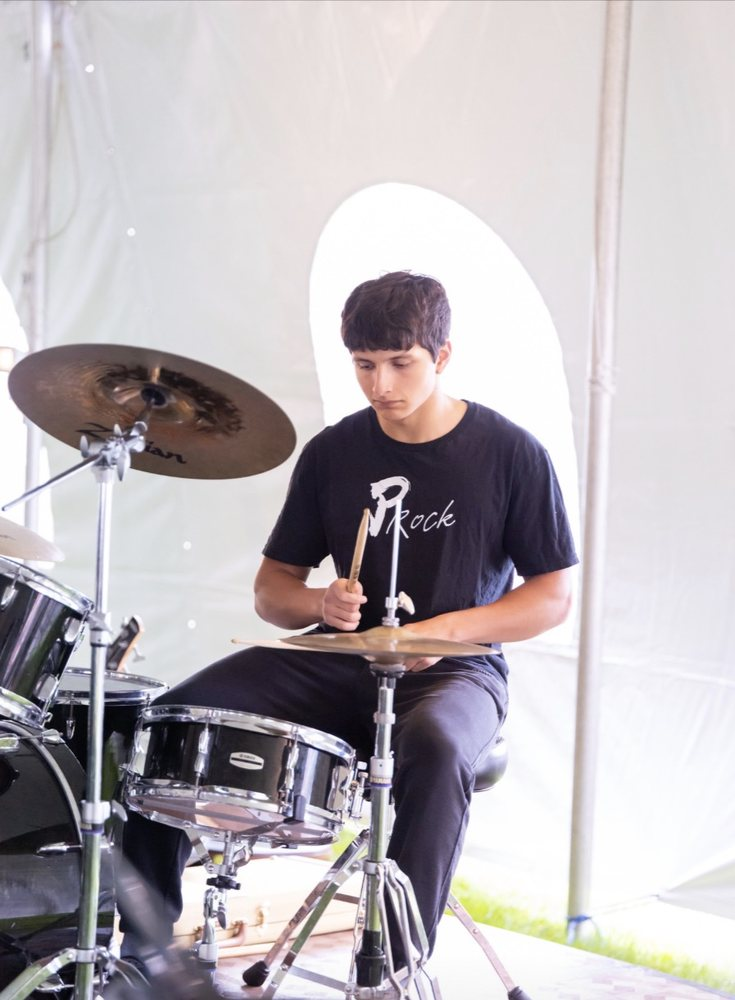
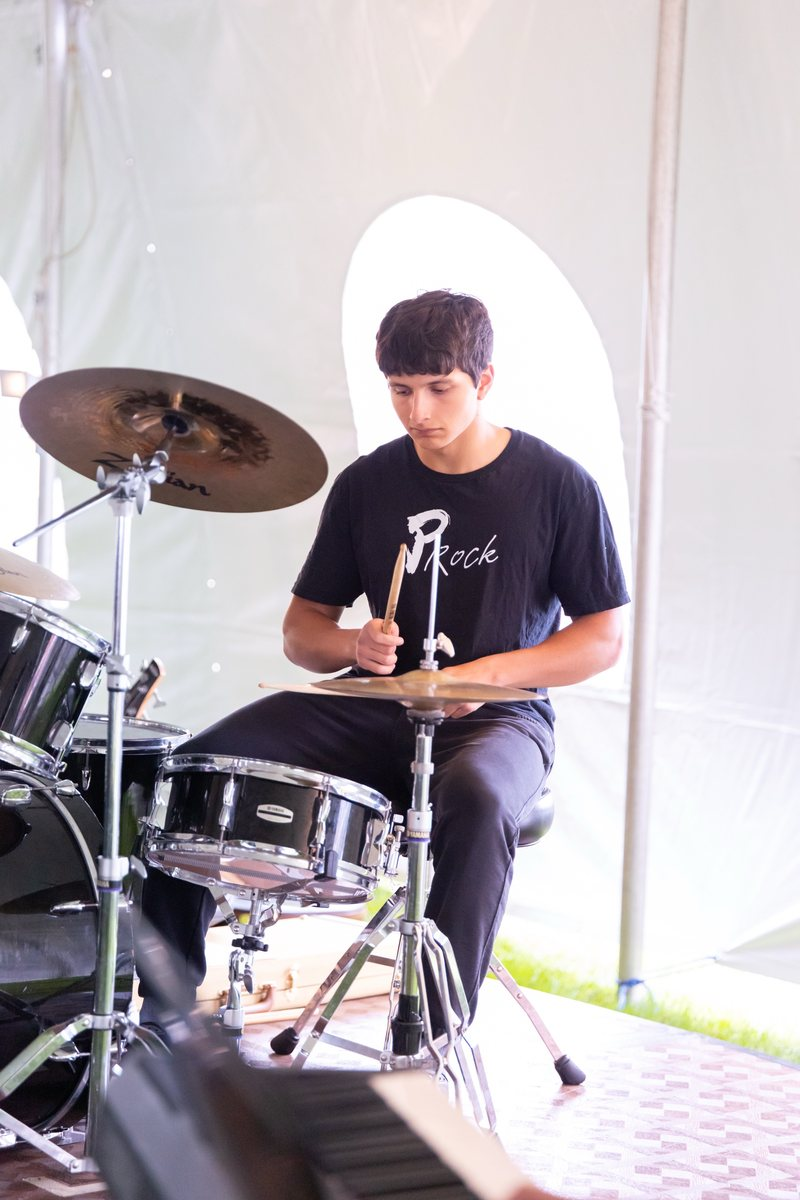
Perkiomen awards night, ceremony and drum photos (#53)
* Add Veracruz hospital photos to the Hospital Shadowing page

Claude-Session: https://claude.ai/code/session_01LLuCQ9BmbqiHfFBN2FyPPo

* Add two Veracruz photos to the homepage floating hero tiles

Claude-Session: https://claude.ai/code/session_01LLuCQ9BmbqiHfFBN2FyPPo

* Use the bicep selfie in the homepage hero instead of the mural

Claude-Session: https://claude.ai/code/session_01LLuCQ9BmbqiHfFBN2FyPPo

* Add CMU, HOSA, volunteering, weightlifting and About photos; more of Santiago in the hero

Claude-Session: https://claude.ai/code/session_01LLuCQ9BmbqiHfFBN2FyPPo

* Hero: real photo tiles served as small preloaded thumbnails, no empty placeholders

Claude-Session: https://claude.ai/code/session_01LLuCQ9BmbqiHfFBN2FyPPo

* Add Exeter, running, swimming, gaming, Chicago, HOSA and travel photos; two more face tiles in the hero

Claude-Session: https://claude.ai/code/session_01LLuCQ9BmbqiHfFBN2FyPPo

* Running hero photo, Colombia and Panama photos, About-page country hover photos, more face tiles in the hero

Claude-Session: https://claude.ai/code/session_01LLuCQ9BmbqiHfFBN2FyPPo

* Speed up the homepage: preload nav templates, smaller hero thumbnails, long-lived caching; fix hero tiles piling up when CSS arrives late

Claude-Session: https://claude.ai/code/session_01LLuCQ9BmbqiHfFBN2FyPPo

* Tidy photo pages into one gallery, hide empty frames, add awards, volunteering, music, Exeter and CMU photos
[…]

diff --git a/tools/build-pages.js b/tools/build-pages.js
@@ -671,9 +671,27 @@ const PAGES = [
         ]
       },
       {
+        "title": "Awards night",
+        "body": [
+          "At Perkiomen's awards ceremony I was called up for two awards: the Medical Spirit and Promise Award, presented through Perkiomen's medical institute, and a Science and Math Award from the Rochester Institute of Technology that comes with a scholarship."
+        ],
+        "points": [
+          [
+            "Medical Spirit and Promise Award",
+            "From the Perkiomen faculty, for the health science track and the work around it."
+          ],
+          [
+            "RIT Science and Math Award",
+            "Includes a scholarship of $29,000 a year, renewable and worth up to $116,000, if I am admitted to an RIT BS/BFA program and enroll in fall 2027."
+          ]
+        ],
+        "slots": ["perk-17"]
+      },
+      {
         "title": "Around campus",
         "slots": [
           "perk-16",
+          "perk-19",
           "perk-13",
           "perk-14",
           "perk-15",
@@ -695,8 +713,8 @@ const PAGES = [
       lede: "Junior year. One for the medical track, one for maths and science, one from the pool.",
       groups: [
         { title: "Grade 11", items: [
-          { label: "Medical Spirit & Promise Award", detail: "For the health science track and the work around it." },
-          { label: "Rochester Institute of Technology Math & Science Award", detail: "2026. Awarded to a junior through RIT's recognition programme." },
+          { label: "Medical Spirit & Promise Award", detail: "Presented through Perkiomen's medical institute, for the health science track and the work around it." },
+          { label: "RIT Science & Math Award and scholarship", detail: "2026. Rochester Institute of Technology: $29,000 a year, renewable, up to $116,000, if admitted to an RIT BS/BFA program and enrolling in fall 2027." },
           { label: "Most Improved, Varsity Boys Swimming", detail: "2026. See the swimming page." },
           { label: "AP International Diploma", detail: "Featured by Perkiomen School for earning it." }
         ]}
@@ -710,10 +728,12 @@ const PAGES = [
       { key: "perk-2", ratio: "4 / 3", label: "Medical Spirit and Promise Award, Perkiomen School" },
       { key: "perk-4", ratio: "4 / 3", label: "Science and Math Award, Rochester Institute of Technology" },
       { key: "perk-3", ratio: "1 / 1", label: "Awards night" },
+      { key: "perk-17", ratio: "1600 / 1067", label: "Receiving the folder at Perkiomen's awards ceremony" },
+      { key: "perk-19", ratio: "719 / 1000", label: "Stepping away from the podium at an outdoor ceremony" },
       { key: "perk-5", ratio: "4 / 3", label: "A birthday dinner in the dining hall" },
       { key: "perk-6", ratio: "3 / 4", label: "Meeting Alberto, the anatomy skeleton, in class" },
       { key: "perk-7", ratio: "4 / 3", label: "My first room at Perkiomen, the start of my own adventure" },
-      { key: "perk-8", ratio: "974 / 778", label: "Perkiomen School's post on earning the AP International Diploma" },
+      { key: "perk-8", ratio: "1600 / 1067", label: "Perkiomen School's post on earning the AP International Diploma" },
       { key: "perk-9", ratio: "2016 / 1512", label: "A winter sunset over campus" },
       { key: "perk-10", ratio: "2016 / 1512", label: "Dusk on the lawn" },
       { key: "perk-13", ratio: "1125 / 1500", label: "With Senator Pennycuick" },
@@ -1650,7 +1670,8 @@ const PAGES = [
             "Alongside it",
             "HOSA, Model UN, the Perkiomenite and the Investment & Philanthropy Club, where I am secretary."
           ]
-        ]
+        ],
+        "slots": ["stuco-bell", "stuco-chalk"]
       },
       {
         "title": "The throughline",
@@ -1664,6 +1685,8 @@ const PAGES = [
       { key: "stuco-1", ratio: "4 / 3", label: "Student Council at ISPS" },
       { key: "stuco-2", ratio: "4 / 3", label: "Senate at Perkiomen" },
       { key: "stuco-3", ratio: "1 / 1", label: "A council event" },
+      { key: "stuco-bell", ratio: "1600 / 1067", label: "Ringing the bell as a procession climbs the steps, 2027 chalked underfoot" },
+      { key: "stuco-chalk", ratio: "1600 / 1067", label: "Chalking the steps with two classmates" },
       { key: "stuco-nassp", ratio: "1100 / 1524", label: "Certificate of participation, NHS and National Student Council Conference, Chicago, January 2025" }
     ],
     next: { title: "Next: Hospital Shadowing", lede: "Time on the floor.", href: "Leadership-Shadowing.dc.html", label: "Go to shadowing" }
@@ -2421,6 +2444,13 @@ const PAGES = [
         ]
       },
       {
+        "title": "Under the lights",
+        "body": [
+          "The same habits on a different kit: a white shirt, orange drums and a wash of purple light."
+        ],
+        "slots": ["music-9"]
+      },
+      {
         "title": "And the mic",
         "body": [
           "Singing is new. It is a different muscle, but not a different job: be in time, be heard, and make the people around you sound better. Years of keeping time for singers taught me what they need from the band, and now I get to be the one who needs it."
@@ -2436,7 +2466,8 @@ const PAGES = [
     facts: [["Band", "Perkiomen rock band"], ["Role", "Drums and vocals"], ["School", "Perkiomen"]],
     slots: [
       { key: "music-7", ratio: "1800 / 1204", label: "Drumming under the tent in a PRock shirt" },
-      { key: "music-8", ratio: "735 / 1000", label: "Locked in on the hi-hat" },
+      { key: "music-8", ratio: "800 / 1200", label: "Locked in on the hi-hat" },
+      { key: "music-9", ratio: "800 / 1200", label: "Another night at the kit, under purple light" },
       { key: "music-2", ratio: "1600 / 1200", label: "The band before the set" },
       { key: "music-6", ratio: "1500 / 1335", label: "The view from the throne" },
       { key: "music-5", ratio: "1400 / 933", label: "Rehearsal on the Perkiomen stage" }

diff --git a/pages/Academics-Perkiomen.dc.html b/pages/Academics-Perkiomen.dc.html
@@ -118,12 +118,32 @@ a{color:var(--sa-link)}a:hover{color:var(--sa-link-hover)}
     <p>My GPA is 4.0 unweighted and 4.83 weighted.</p>
   </div>
 </section>
+<section data-reveal="1" class="sa-media-row">
+  <div class="sa-media-figs n1">
+      <figure class="sa-fig">
+        <sa-image-slot slot-key="perk-17" ratio="1600 / 1067" placeholder="Receiving the folder at Perkiomen's awards ceremony"></sa-image-slot>
+        <figcaption>Receiving the folder at Perkiomen's awards ceremony</figcaption>
+      </figure>
+  </div>
+  <div class="sa-media-text">
+    <h3>Awards night</h3>
+    <p>At Perkiomen's awards ceremony I was called up for two awards: the Medical Spirit and Promise Award, presented through Perkiomen's medical institute, and a Science and Math Award from the Rochester Institute of Technology that comes with a scholarship.</p>
+    <ul class="sa-points">
+      <li><strong>Medical Spirit and Promise Award</strong><span>From the Perkiomen faculty, for the health science track and the work around it.</span></li>
+      <li><strong>RIT Science and Math Award</strong><span>Includes a scholarship of $29,000 a year, renewable and worth up to $116,000, if I am admitted to an RIT BS/BFA program and enroll in fall 2027.</span></li>
+    </ul>
+  </div>
+</section>
 <section data-reveal="1" class="sa-gallery-wrap" style="padding-top:var(--sa-space-8);padding-bottom:var(--sa-space-8)">
   <div class="sa-gallery-head"><span class="sa-gallery-kicker">Around campus</span></div>
   <div class="sa-gallery n3">
       <figure class="sa-fig">
         <sa-image-slot slot-key="perk-16" ratio="733 / 1000" placeholder="At the microphone in a Perkiomen tie"></sa-image-slot>
         <figcaption>At the microphone in a Perkiomen tie</figcaption>
+      </figure>
+      <figure class="sa-fig">
+        <sa-image-slot slot-key="perk-19" ratio="719 / 1000" placeholder="Stepping away from the podium at an outdoor ceremony"></sa-image-slot>
+        <figcaption>Stepping away from the podium at an outdoor ceremony</figcaption>
       </figure>
       <figure class="sa-fig">
         <sa-image-slot slot-key="perk-13" ratio="1125 / 1500" placeholder="With Senator Pennycuick"></sa-image-slot>
@@ -146,7 +166,7 @@ a{color:var(--sa-link)}a:hover{color:var(--sa-link-hover)}
         <figcaption>A birthday dinner in the dining hall</figcaption>
       </figure>
       <figure class="sa-fig">
-        <sa-image-slot slot-key="perk-8" ratio="974 / 778" placeholder="Perkiomen School's post on earning the AP International Diploma"></sa-image-slot>
+        <sa-image-slot slot-key="perk-8" ratio="1600 / 1067" placeholder="Perkiomen School's post on earning the AP International Diploma"></sa-image-slot>
         <figcaption>Perkiomen School's post on earning the AP International Diploma</figcaption>
       </figure>
       <figure class="sa-fig">
@@ -184,14 +204,14 @@ a{color:var(--sa-link)}a:hover{color:var(--sa-link-hover)}
             <span style="width:6px;height:6px;border-radius:50%;background:var(--sa-accent);margin-top:9px;flex:none"></span>
             <span>
               <span style="display:block;font:var(--sa-type-ui);font-size:var(--sa-text-base);color:var(--sa-text-primary)">Medical Spirit &amp; Promise Award</span>
-              <span style="display:block;font:var(--sa-type-body);font-size:var(--sa-text-sm);color:var(--sa-text-secondary);margin-top:2px;text-wrap:pretty">For the health science track and the work around it.</span>
+              <span style="display:block;font:var(--sa-type-body);font-size:var(--sa-text-sm);color:var(--sa-text-secondary);margin-top:2px;text-wrap:pretty">Presented through Perkiomen's medical institute, for the health science track and the work around it.</span>
             </span>
           </li>
           <li style="display:flex;gap:10px;align-items:flex-start">
             <span style="width:6px;height:6px;border-radius:50%;background:var(--sa-accent);margin-top:9px;flex:none"></span>
             <span>
-              <span style="display:block;font:var(--sa-type-ui);font-size:var(--sa-text-base);color:var(--sa-text-primary)">Rochester Institute of Technology Math &amp; Science Award</span>
-              <span style="display:block;font:var(--sa-type-body);font-size:var(--sa-text-sm);color:var(--sa-text-secondary);margin-top:2px;text-wrap:pretty">2026. Awarded to a junior through RIT's recognition programme.</span>
+              <span style="display:block;font:var(--sa-type-ui);font-size:var(--sa-text-base);color:var(--sa-text-primary)">RIT Science &amp; Math Award and scholarship</span>
+              <span style="display:block;font:var(--sa-type-body);font-size:var(--sa-text-sm);color:var(--sa-text-secondary);margin-top:2px;text-wrap:pretty">2026. Rochester Institute of Technology: $29,000 a year, renewable, up to $116,000, if admitted to an RIT BS/BFA program and enrolling in fall 2027.</span>
             </span>
           </li>
           <li style="display:flex;gap:10px;align-items:flex-start">

diff --git a/pages/Leadership-StudentCouncil.dc.html b/pages/Leadership-StudentCouncil.dc.html
@@ -125,8 +125,17 @@ a{color:var(--sa-link)}a:hover{color:var(--sa-link-hover)}
     </ul>
   </div>
 </section>
-<section data-reveal="1" class="sa-text-row">
-  <div class="sa-text-head"><span class="sa-text-kicker">02</span></div>
+<section data-reveal="1" class="sa-media-row">
+  <div class="sa-media-figs n2">
+      <figure class="sa-fig">
+        <sa-image-slot slot-key="stuco-bell" ratio="1600 / 1067" placeholder="Ringing the bell as a procession climbs the steps, 2027 chalked underfoot"></sa-image-slot>
+        <figcaption>Ringing the bell as a procession climbs the steps, 2027 chalked underfoot</figcaption>
+      </figure>
+      <figure class="sa-fig">
+        <sa-image-slot slot-key="stuco-chalk" ratio="1600 / 1067" placeholder="Chalking the steps with two classmates"></sa-image-slot>
+        <figcaption>Chalking the steps with two classmates</figcaption>
+      </figure>
+  </div>
   <div class="sa-media-text">
     <h3>At Perkiomen</h3>
     <p>At Perkiomen I am President of the Class of 2027 and sit on Student Senate, and I am a dorm proctor. Different school, same job: listen, then work out which problems are actually solvable.</p>
@@ -138,7 +147,7 @@ a{color:var(--sa-link)}a:hover{color:var(--sa-link-hover)}
   </div>
 </section>
 <section data-reveal="1" class="sa-text-row">
-  <div class="sa-text-head"><span class="sa-text-kicker">03</span></div>
+  <div class="sa-text-head"><span class="sa-text-kicker">02</span></div>
   <div class="sa-media-text">
     <h3>The throughline</h3>
     <p>Founding HOSA and directing the GVMUN newsroom are the same instinct, scaled up: notice the gap, then take responsibility for filling it rather than waiting for someone else to.</p>

diff --git a/pages/Drums-Rockband.dc.html b/pages/Drums-Rockband.dc.html
@@ -114,7 +114,7 @@ a{color:var(--sa-link)}a:hover{color:var(--sa-link-hover)}
 <section data-reveal="1" class="sa-media-row flip">
   <div class="sa-media-figs n2">
       <figure class="sa-fig">
-        <sa-image-slot slot-key="music-8" ratio="735 / 1000" placeholder="Locked in on the hi-hat"></sa-image-slot>
+        <sa-image-slot slot-key="music-8" ratio="800 / 1200" placeholder="Locked in on the hi-hat"></sa-image-slot>
         <figcaption>Locked in on the hi-hat</figcaption>
       </figure>
       <figure class="sa-fig">
@@ -125,6 +125,18 @@ a{color:var(--sa-link)}a:hover{color:var(--sa-link-hover)}
   <div class="sa-media-text">
     <h3>At the kit</h3>
     <p>The kit is also where I think. It is the same instrument I started on in Panama, and the same habits: learn it by ear, then clean it up from the sheet, then play it faster than feels sensible.</p>
+  </div>
+</section>
+<section data-reveal="1" class="sa-media-row">
+  <div class="sa-media-figs n1">
+      <figure class="sa-fig">
+        <sa-image-slot slot-key="music-9" ratio="800 / 1200" placeholder="Another night at the kit, under purple light"></sa-image-slot>
+        <figcaption>Another night at the kit, under purple light</figcaption>
+      </figure>
+  </div>
+  <div class="sa-media-text">
+    <h3>Under the lights</h3>
+    <p>The same habits on a different kit: a white shirt, orange drums and a wash of purple light.</p>
   </div>
 </section>
 <section data-reveal="1" class="sa-text-row">

diff --git a/index.html b/index.html
@@ -242,6 +242,16 @@ a{color:var(--sa-link)}a:hover{color:var(--sa-link-hover)}
         <img src="/assets/photos/hero/me-prock2.jpg" width="180" height="160" alt="" decoding="async" draggable="false" style="display:block;width:100%;height:auto;aspect-ratio:180 / 160">
       </div>
     </div>
+    <div class="sa-float" style="width:clamp(46px,4.8vw,70px)">
+      <div class="sa-float-inner" style="rotate:2.0deg">
+        <img src="/assets/photos/hero/me-awards.jpg" width="180" height="160" alt="" decoding="async" draggable="false" style="display:block;width:100%;height:auto;aspect-ratio:180 / 160">
+      </div>
+    </div>
+    <div class="sa-float" style="width:clamp(44px,4.6vw,66px)">
+      <div class="sa-float-inner" style="rotate:-2.2deg">
+        <img src="/assets/photos/hero/me-purple.jpg" width="170" height="180" alt="" decoding="async" draggable="false" style="display:block;width:100%;height:auto;aspect-ratio:170 / 180">
+      </div>
+    </div>
   </div>
   <div class="sa-hero-well" aria-hidden="true"></div>
 

diff --git a/pages/Home.dc.html b/pages/Home.dc.html
@@ -242,6 +242,16 @@ a{color:var(--sa-link)}a:hover{color:var(--sa-link-hover)}
         <img src="/assets/photos/hero/me-prock2.jpg" width="180" height="160" alt="" decoding="async" draggable="false" style="display:block;width:100%;height:auto;aspect-ratio:180 / 160">
       </div>
     </div>
+    <div class="sa-float" style="width:clamp(46px,4.8vw,70px)">
+      <div class="sa-float-inner" style="rotate:2.0deg">
+        <img src="/assets/photos/hero/me-awards.jpg" width="180" height="160" alt="" decoding="async" draggable="false" style="display:block;width:100%;height:auto;aspect-ratio:180 / 160">
+      </div>
+    </div>
+    <div class="sa-float" style="width:clamp(44px,4.6vw,66px)">
+      <div class="sa-float-inner" style="rotate:-2.2deg">
+        <img src="/assets/photos/hero/me-purple.jpg" width="170" height="180" alt="" decoding="async" draggable="false" style="display:block;width:100%;height:auto;aspect-ratio:170 / 180">
+      </div>
+    </div>
   </div>
   <div class="sa-hero-well" aria-hidden="true"></div>
 

diff --git a/tools/face-crops.py b/tools/face-crops.py
@@ -54,6 +54,8 @@ HERO = [
   ('me-prock','music-prock',.70,.24,.45,(180,153)),
   ('me-blazer','perk-blazer',.57,.31,.62,(170,180)),
   ('me-prock2','music-prock2',.535,.37,.60,(180,160)),
+  ('me-awards','perk-awards',.44,.25,.30,(180,160)),
+  ('me-purple','music-purple',.577,.29,.55,(170,180)),
 ]
 # cards are 640x400
 CARDS = [
